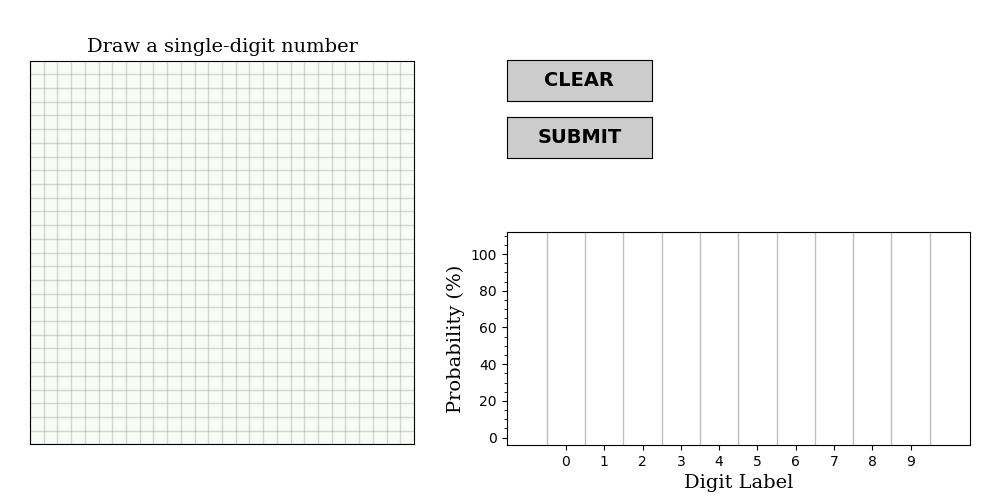
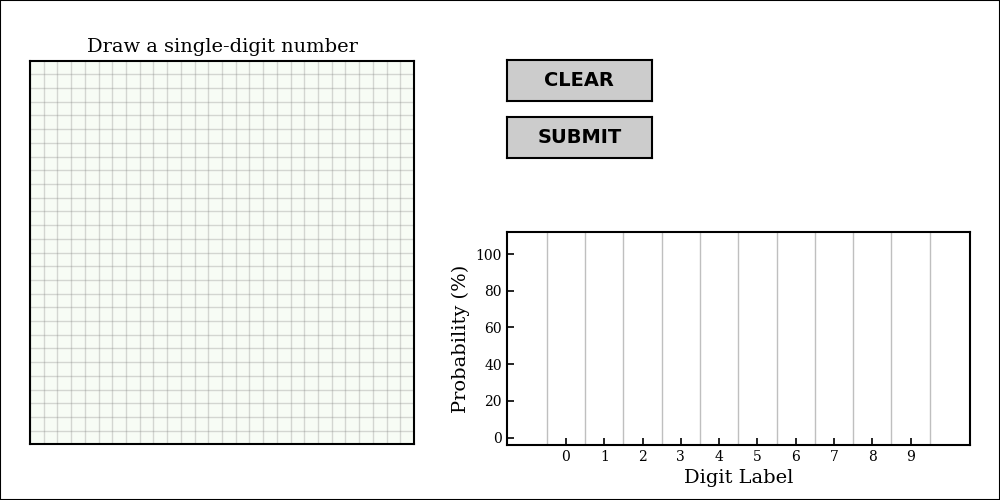
updated figures and minor code edits

diff --git a/code/utils.py b/code/utils.py
@@ -8,7 +8,7 @@ from scipy import ndimage
 from matplotlib import pyplot
 
 
-def load_MNIST_data(set_type='train', centering=True, normalize=True):
+def load_MNIST_data(set_type='train', normalize=True):
     '''Reads the MNIST data binaries and returns as arrays.
     Specify either "train" or "test" data'''
 
@@ -43,17 +43,6 @@ def load_MNIST_data(set_type='train', centering=True, normalize=True):
         byte_data = fopen_images.read(Nrows*Ncols)
         image_data = struct.unpack('B'*(Nrows*Ncols), byte_data)
         digits_data[i] = numpy.array(image_data)
-
-    ###  centering images
-    print('')
-    if centering == True:
-        for i in range(Ntot):
-
-            text = '\r[%2i%%] centering digit images' % (i*100./(Ntot-1))
-            sys.stdout.write(text)
-            sys.stdout.flush()
-
-            digits_data[i] = center_image(digits_data[i])
 
     print('')
     fopen_labels.close()

diff --git a/code/DigitCanvas.py b/code/DigitCanvas.py
@@ -29,9 +29,11 @@ class DigitCanvas(object):
         ###  labeling probabilities panel
         self.ax_probs.set_xlabel('Digit Label', size=14, family='serif')
         self.ax_probs.set_ylabel('Probability (%)', size=14, family='serif')
-        self.ax_probs.minorticks_on()
+        self.ax_probs.minorticks_off()
         self.ax_probs.set_ylim(-4, 112)
         self.ax_probs.tick_params(axis='x', which='minor', bottom=False)
+        self.ax_probs.xaxis.set_tick_params(top=False)
+        self.ax_probs.yaxis.set_tick_params(right=False)
 
         self.ax_probs.xaxis.set_ticks(range(10))
         for i in numpy.arange(-0.5,10,1):

diff --git a/README.md b/README.md
@@ -43,8 +43,8 @@ ___
 
 Digit Canvas is an interactive figure which allows you to draw your own numerals and have the network guess them.
 
-First you must clone the repository to your machine.
-Next, open a terminal and switch to the `code` directory within it and execute the python script.
+First you'll need to clone the repository to your machine.
+Next, open a terminal and switch to the `code` directory within it and execute the python script `DigitCanvas.py`.
 
 ```
 git clone https://github.com/tomczak724/Number_Classification_Neural_Network.git
@@ -61,7 +61,6 @@ Simply use your mouse to draw your number of choice in the large square panel on
 <img src="./figures/digit_canvas_2.png" width="660">
 
 Once you're finished click the **SUBMIT** button to have your drawing digitized, centered, and processed by the network to guess your digit.
-
 The panel to the lower-right will indicate the network's best guess as well as it's confidence in all 10 possible digits.
 Click the **CLEAR** button to reset.
 
